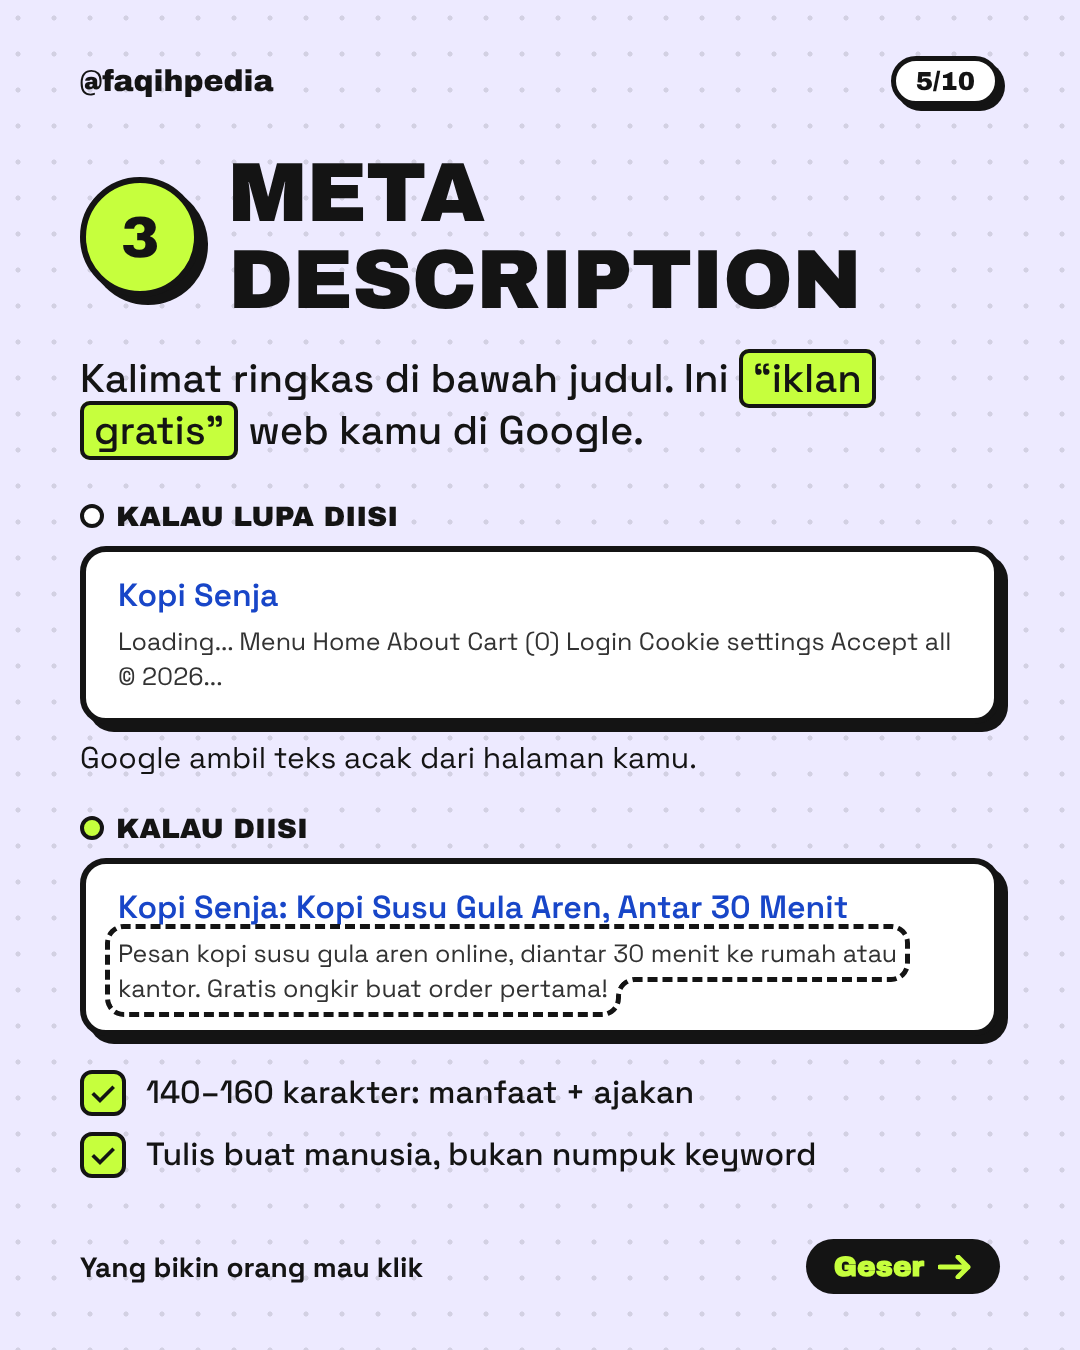
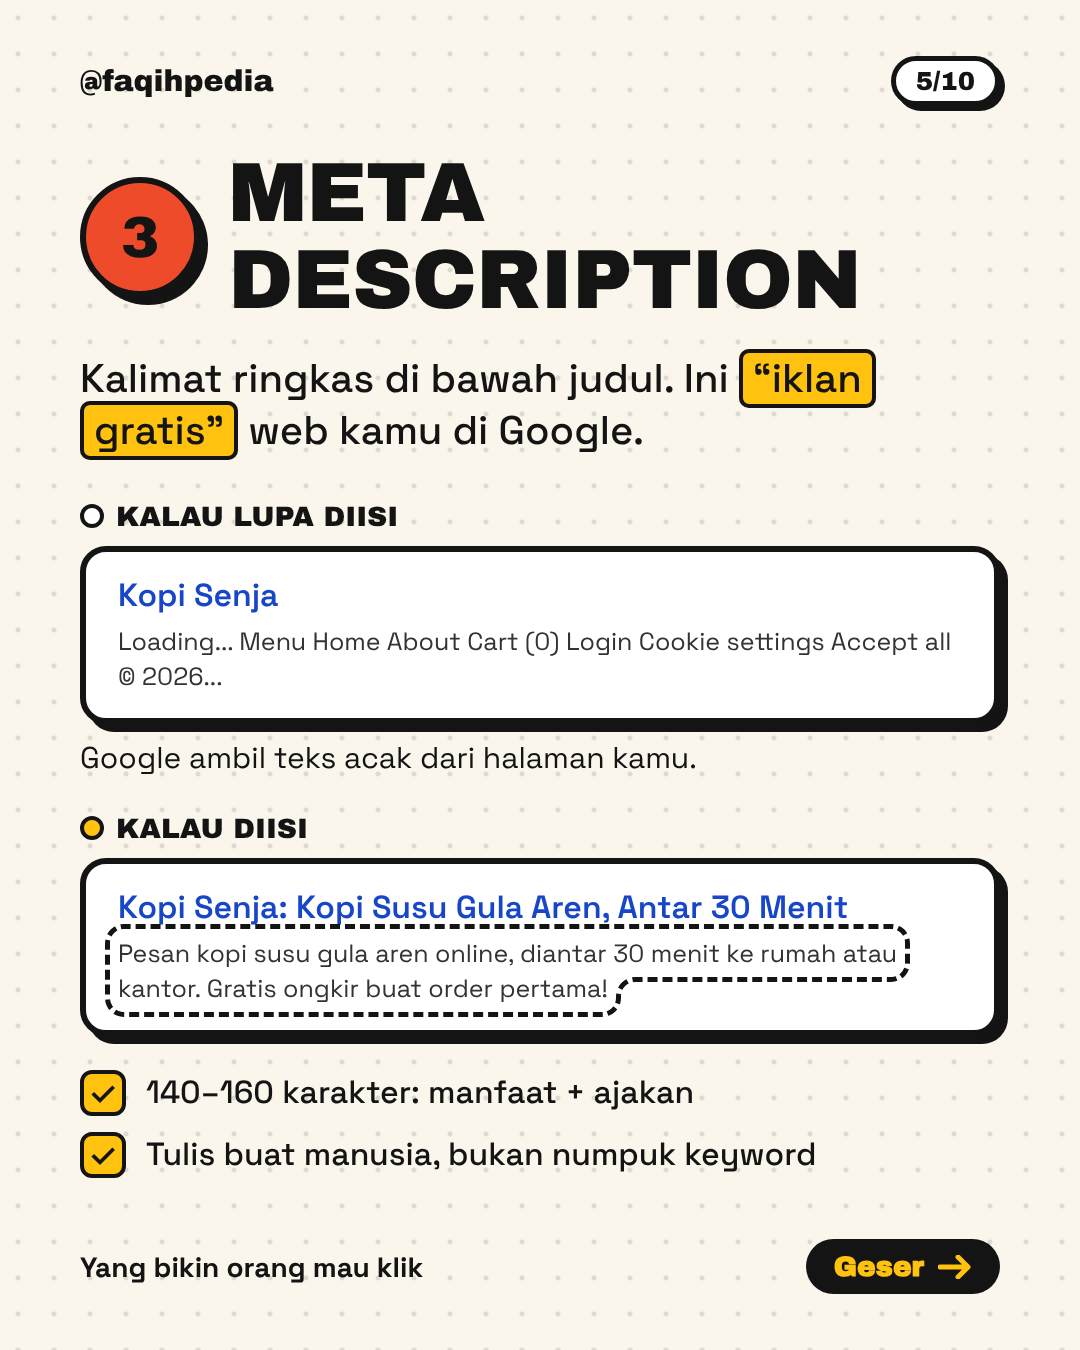
Carousel: switch to retro-pop palette (cream, yellow, blue, red-orange)
Claude-Session: https://claude.ai/code/session_018xRo3amBKB69FesK9psCXM

diff --git a/carousel-meta-tags/index.html b/carousel-meta-tags/index.html
@@ -11,16 +11,18 @@
 
 /*
   Palette: one accent only.
-  ink + white + lilac (background, plus a deeper lilac for surfaces) + lime.
-  Highlights are always ink-on-lime or lime-on-ink, both well above WCAG AAA.
+  Retro-pop palette: cream base, yellow as the main accent, blue + red-orange as support.
+  All text is ink (or yellow/cream on ink): ink on yellow ~12:1, on blue ~7:1, on red ~5:1.
   The only other colour is the link blue inside the UI mocks, because that is what real chat / search UIs look like.
 */
 :root {
-  --bg: #EDEAFF;
-  --bg2: #D9D3FF;
+  --bg: #FBF6EC;
+  --bg2: #CDEBFF;
+  --blue: #1EA4F2;
+  --red: #EE4B2B;
   --ink: #141414;
   --white: #FFFFFF;
-  --lime: #C6FF3D;
+  --yellow: #FFC20E;
   --muted: #55535F;
   --link: #1846C8;
   --b: 6px;
@@ -38,43 +40,44 @@ body { background: #222; display: flex; flex-direction: column; align-items: cen
   padding: 150px 80px 130px;
   display: flex; flex-direction: column;
 }
-.slide.lime { background-color: var(--lime); background-image: radial-gradient(rgba(20,20,20,.14) 2.5px, transparent 2.6px); }
+.slide.red { background-color: var(--red); }
+.slide.yellow { background-color: var(--yellow); background-image: radial-gradient(rgba(20,20,20,.14) 2.5px, transparent 2.6px); }
 
 /* chrome: top + bottom bars */
 .top { position: absolute; top: 56px; left: 80px; right: 80px; display: flex; justify-content: space-between; align-items: center; }
 .handle { font-family: var(--head); font-size: 30px; }
 .count { font-family: var(--head); font-size: 26px; background: var(--white); border: 5px solid var(--ink); border-radius: 999px; padding: 6px 20px; box-shadow: 5px 5px 0 var(--ink); }
 .bottom { position: absolute; bottom: 56px; left: 80px; right: 80px; display: flex; justify-content: space-between; align-items: center; font-weight: 700; font-size: 28px; }
-.swipe { font-family: var(--head); font-size: 28px; background: var(--ink); color: var(--lime); border-radius: 999px; padding: 12px 28px; display: flex; gap: 14px; align-items: center; }
+.swipe { font-family: var(--head); font-size: 28px; background: var(--ink); color: var(--yellow); border-radius: 999px; padding: 12px 28px; display: flex; gap: 14px; align-items: center; }
 
 /* blocks */
 .box { background: var(--white); border: var(--b) solid var(--ink); border-radius: 26px; box-shadow: 12px 12px 0 var(--ink); padding: 30px 36px; }
 .sticker { display: inline-block; font-family: var(--head); text-transform: uppercase; border: 5px solid var(--ink); border-radius: 16px; box-shadow: 7px 7px 0 var(--ink); padding: 10px 24px; font-size: 34px; white-space: nowrap; background: var(--white); }
-.sticker.dark { background: var(--ink); color: var(--lime); }
-.mark { background: var(--lime); color: var(--ink); border: 4px solid var(--ink); border-radius: 10px; padding: 0 10px; box-decoration-break: clone; -webkit-box-decoration-break: clone; }
-.mark.inv { background: var(--ink); color: var(--lime); }
+.sticker.dark { background: var(--ink); color: var(--yellow); }
+.mark { background: var(--yellow); color: var(--ink); border: 4px solid var(--ink); border-radius: 10px; padding: 0 10px; box-decoration-break: clone; -webkit-box-decoration-break: clone; }
+.mark.inv { background: var(--ink); color: var(--yellow); }
 
 h1 { font-family: var(--head); font-weight: 400; font-size: 100px; line-height: 1.04; letter-spacing: -1px; text-transform: uppercase; }
 h2 { font-family: var(--head); font-weight: 400; font-size: 84px; line-height: 1.04; text-transform: uppercase; letter-spacing: -1px; }
 .lead { font-size: 40px; line-height: 1.3; font-weight: 500; }
 .small { font-size: 30px; line-height: 1.35; }
-.num { width: 120px; height: 120px; border: var(--b) solid var(--ink); border-radius: 50%; background: var(--lime); box-shadow: 8px 8px 0 var(--ink); font-family: var(--head); font-size: 58px; display: grid; place-items: center; flex: none; }
+.num { width: 120px; height: 120px; border: var(--b) solid var(--ink); border-radius: 50%; background: var(--yellow); box-shadow: 8px 8px 0 var(--ink); font-family: var(--head); font-size: 58px; display: grid; place-items: center; flex: none; }
 .row { display: flex; gap: 28px; align-items: center; }
 .mono { font-family: "DejaVu Sans Mono", ui-monospace, monospace; }
 .code { background: var(--ink); color: var(--white); border-radius: 18px; padding: 22px 28px; font-size: 25px; line-height: 1.55; font-family: "DejaVu Sans Mono", ui-monospace, monospace; border: var(--b) solid var(--ink); box-shadow: 10px 10px 0 rgba(20,20,20,.3); }
-.code .a { color: var(--bg2); }
-.code .s { color: var(--lime); }
-.tag { position: absolute; font-family: var(--head); font-size: 24px; background: var(--ink); color: var(--lime); border: 4px solid var(--ink); border-radius: 12px; padding: 6px 14px; box-shadow: 5px 5px 0 rgba(20,20,20,.35); white-space: nowrap; }
+.code .a { color: #8FD3FF; }
+.code .s { color: var(--yellow); }
+.tag { position: absolute; font-family: var(--head); font-size: 24px; background: var(--ink); color: var(--yellow); border: 4px solid var(--ink); border-radius: 12px; padding: 6px 14px; box-shadow: 5px 5px 0 rgba(20,20,20,.35); white-space: nowrap; }
 .tag.light { background: var(--white); color: var(--ink); box-shadow: 5px 5px 0 var(--ink); }
 .tips { display: flex; flex-direction: column; gap: 18px; }
 .tip { display: flex; gap: 20px; align-items: flex-start; font-size: 32px; line-height: 1.3; font-weight: 500; }
-.tip i { flex: none; width: 46px; height: 46px; border: 4px solid var(--ink); border-radius: 12px; background: var(--lime); display: grid; place-items: center; font-style: normal; font-weight: 700; margin-top: -2px; }
+.tip i { flex: none; width: 46px; height: 46px; border: 4px solid var(--ink); border-radius: 12px; background: var(--yellow); display: grid; place-items: center; font-style: normal; font-weight: 700; margin-top: -2px; }
 .tip i.w { background: var(--white); }
 
 /* chat mock */
 .chat { background: #F7F6FB; border: var(--b) solid var(--ink); border-radius: 30px; box-shadow: 12px 12px 0 var(--ink); overflow: hidden; }
 .chat-head { background: var(--ink); color: var(--white); padding: 20px 28px; display: flex; gap: 18px; align-items: center; font-weight: 700; font-size: 28px; }
-.ava { width: 52px; height: 52px; border-radius: 50%; background: var(--bg2); border: 3px solid var(--white); }
+.ava { width: 52px; height: 52px; border-radius: 50%; background: var(--blue); border: 3px solid var(--white); }
 .chat-body { padding: 26px; display: flex; flex-direction: column; gap: 16px; }
 .bubble { align-self: flex-end; background: var(--bg2); border: 4px solid var(--ink); border-radius: 22px 22px 6px 22px; padding: 16px 20px; font-size: 28px; max-width: 92%; }
 .bubble.in { align-self: flex-start; background: var(--white); border-radius: 22px 22px 22px 6px; }
@@ -91,18 +94,18 @@ h2 { font-family: var(--head); font-weight: 400; font-size: 84px; line-height: 1
 .og .og-logo, .og .og-h { position: relative; z-index: 1; }
 .og .og-logo { display: flex; gap: 12px; align-items: center; font-family: var(--head); font-size: 1.1em; }
 .og .og-h { font-family: var(--head); font-size: 2.2em; line-height: 1.02; margin-top: .3em; text-transform: uppercase; }
-.og .og-h span { color: var(--lime); }
-.og .blob { position: absolute; right: -12%; top: -22%; width: 42%; aspect-ratio: 1; border-radius: 50%; background: var(--bg2); border: 5px solid var(--white); }
-.og .blob2 { position: absolute; right: 8%; bottom: -24%; width: 26%; aspect-ratio: 1; border-radius: 30%; background: var(--lime); border: 5px solid var(--white); transform: rotate(18deg); }
+.og .og-h span { color: var(--yellow); }
+.og .blob { position: absolute; right: -12%; top: -22%; width: 42%; aspect-ratio: 1; border-radius: 50%; background: var(--blue); border: 5px solid var(--white); }
+.og .blob2 { position: absolute; right: 8%; bottom: -24%; width: 26%; aspect-ratio: 1; border-radius: 30%; background: var(--red); border: 5px solid var(--white); transform: rotate(18deg); }
 
 /* fictional brand logo used in mocks */
-.logo { width: 1em; height: 1em; border-radius: 28%; background: var(--lime); border: .1em solid var(--ink); display: grid; place-items: center; font-family: var(--head); color: var(--ink); flex: none; line-height: 1; }
+.logo { width: 1em; height: 1em; border-radius: 28%; background: var(--yellow); border: .1em solid var(--ink); display: grid; place-items: center; font-family: var(--head); color: var(--ink); flex: none; line-height: 1; }
 .logo b { font-size: .62em; font-weight: 400; }
 
 /* browser tabs */
 .browser { border: var(--b) solid var(--ink); border-radius: 26px; overflow: hidden; box-shadow: 12px 12px 0 var(--ink); background: var(--white); }
-.tabs { background: var(--bg2); display: flex; align-items: flex-end; gap: 6px; padding: 18px 18px 0; border-bottom: var(--b) solid var(--ink); }
-.tabx { display: flex; gap: 14px; align-items: center; padding: 16px 20px; font-size: 26px; font-weight: 600; border: 4px solid var(--ink); border-bottom: none; border-radius: 16px 16px 0 0; background: #E9E5FF; white-space: nowrap; max-width: 330px; overflow: hidden; }
+.tabs { background: var(--blue); display: flex; align-items: flex-end; gap: 6px; padding: 18px 18px 0; border-bottom: var(--b) solid var(--ink); }
+.tabx { display: flex; gap: 14px; align-items: center; padding: 16px 20px; font-size: 26px; font-weight: 600; border: 4px solid var(--ink); border-bottom: none; border-radius: 16px 16px 0 0; background: var(--bg2); white-space: nowrap; max-width: 330px; overflow: hidden; }
 .tabx.on { background: var(--white); margin-bottom: -6px; padding-bottom: 22px; }
 .tabx span { overflow: hidden; text-overflow: ellipsis; }
 .blank { width: 30px; height: 30px; flex: none; border: 3px solid var(--muted); border-radius: 50%; position: relative; }
@@ -122,7 +125,7 @@ h2 { font-family: var(--head); font-weight: 400; font-size: 84px; line-height: 1
 .vs { display: grid; grid-template-columns: 1fr 1fr; gap: 26px; }
 .label { font-family: var(--head); font-size: 28px; text-transform: uppercase; margin-bottom: 14px; display: flex; gap: 12px; align-items: center; }
 .dot { width: 24px; height: 24px; border-radius: 50%; border: 4px solid var(--ink); background: var(--white); flex: none; }
-.dot.on { background: var(--lime); }
+.dot.on { background: var(--yellow); }
 
 /* CTA buttons */
 .cta { display: flex; align-items: center; gap: 30px; background: var(--white); border: var(--b) solid var(--ink); border-radius: 28px; box-shadow: 12px 12px 0 var(--ink); padding: 26px 32px; }
@@ -134,7 +137,7 @@ h2 { font-family: var(--head); font-weight: 400; font-size: 84px; line-height: 1
 <body>
 
 <!-- ============================================================ 1. COVER -->
-<section class="slide lime" id="s1">
+<section class="slide red" id="s1">
   <div class="top"><div class="handle">@faqihpedia</div><div class="count">1/10</div></div>
 
   <p class="lead" style="font-size:38px; font-weight:600;">Aku sering lihat orang share web hasil vibe coding…</p>
@@ -235,7 +238,7 @@ h2 { font-family: var(--head); font-weight: 400; font-size: 84px; line-height: 1
 <section class="slide" id="s4">
   <div class="top"><div class="handle">@faqihpedia</div><div class="count">4/10</div></div>
 
-  <div class="row"><div class="num">2</div><h2>Meta title</h2></div>
+  <div class="row"><div class="num" style="background:var(--blue)">2</div><h2>Meta title</h2></div>
   <p class="lead" style="margin-top:28px;">Judul halaman. Tampil di <span class="mark">tab</span>, <span class="mark">hasil Google</span>, dan preview link.</p>
 
   <div class="box serp" style="margin-top:50px; position:relative;">
@@ -250,7 +253,7 @@ h2 { font-family: var(--head); font-weight: 400; font-size: 84px; line-height: 1
       <div class="label" style="font-size:24px;"><span class="dot"></span>Yang sering aku lihat</div>
       <div class="mono" style="font-size:28px; line-height:1.6; text-decoration:line-through; text-decoration-thickness:3px;">Vite + React<br>Home<br>Untitled</div>
     </div>
-    <div class="box" style="background:var(--lime); padding:24px 28px;">
+    <div class="box" style="background:var(--yellow); padding:24px 28px;">
       <div class="label" style="font-size:24px;"><span class="dot" style="background:var(--ink)"></span>Yang proper</div>
       <div style="font-size:28px; line-height:1.4; font-weight:700;">[Nama Brand]: [Apa yang kamu tawarkan]</div>
     </div>
@@ -268,7 +271,7 @@ h2 { font-family: var(--head); font-weight: 400; font-size: 84px; line-height: 1
 <section class="slide" id="s5">
   <div class="top"><div class="handle">@faqihpedia</div><div class="count">5/10</div></div>
 
-  <div class="row"><div class="num">3</div><h2>Meta<br>description</h2></div>
+  <div class="row"><div class="num" style="background:var(--red)">3</div><h2>Meta<br>description</h2></div>
   <p class="lead" style="margin-top:28px;">Kalimat ringkas di bawah judul. Ini <span class="mark">“iklan gratis”</span> web kamu di Google.</p>
 
   <div class="label" style="margin-top:44px;"><span class="dot"></span>Kalau lupa diisi</div>
@@ -338,11 +341,11 @@ h2 { font-family: var(--head); font-weight: 400; font-size: 84px; line-height: 1
       <div><div style="font-family:var(--head); font-size:36px; text-transform:uppercase;">Google paham isinya</div><div class="small" style="margin-top:6px;">Title jadi petunjuk utama halaman ini tentang apa.</div></div>
     </div>
     <div class="box row" style="padding:26px 32px; gap:26px; align-items:flex-start;">
-      <div class="num" style="width:84px; height:84px; font-size:40px; box-shadow:5px 5px 0 var(--ink);">B</div>
+      <div class="num" style="width:84px; height:84px; font-size:40px; box-shadow:5px 5px 0 var(--ink); background:var(--blue);">B</div>
       <div><div style="font-family:var(--head); font-size:36px; text-transform:uppercase;">Lebih banyak yang klik</div><div class="small" style="margin-top:6px;">Judul + deskripsi yang jelas bikin orang milih link kamu.</div></div>
     </div>
     <div class="box row" style="padding:26px 32px; gap:26px; align-items:flex-start;">
-      <div class="num" style="width:84px; height:84px; font-size:40px; box-shadow:5px 5px 0 var(--ink);">C</div>
+      <div class="num" style="width:84px; height:84px; font-size:40px; box-shadow:5px 5px 0 var(--ink); background:var(--red);">C</div>
       <div><div style="font-family:var(--head); font-size:36px; text-transform:uppercase;">Kelihatan bisa dipercaya</div><div class="small" style="margin-top:6px;">Preview rapi = web serius, bukan link aneh.</div></div>
     </div>
   </div>
@@ -364,7 +367,7 @@ h2 { font-family: var(--head); font-weight: 400; font-size: 84px; line-height: 1
 <span class="s">3.</span> Meta description 140-160 karakter,<br>&nbsp;&nbsp;&nbsp;isinya manfaat + ajakan<br><br>
 <span class="s">4.</span> OG image 1200x630 + tag og:title,<br>&nbsp;&nbsp;&nbsp;og:description, og:image (URL absolut),<br>&nbsp;&nbsp;&nbsp;og:url, twitter:card=summary_large_image<br><br>
 <span class="a">Taruh semua di &lt;head&gt;.</span>
-    <div class="tag" style="right:-18px; top:-24px; background:var(--lime); color:var(--ink); transform:rotate(4deg); box-shadow:5px 5px 0 var(--ink);">SAVE SLIDE INI</div>
+    <div class="tag" style="right:-18px; top:-24px; background:var(--yellow); color:var(--ink); transform:rotate(4deg); box-shadow:5px 5px 0 var(--ink);">SAVE SLIDE INI</div>
   </div>
 
   <div class="bottom"><div>Ganti isi [ ] sesuai web kamu</div><div class="swipe">Geser <svg width="34" height="24" viewBox="0 0 34 24"><path d="M2 12h28M20 2l10 10-10 10" stroke="currentColor" stroke-width="5" fill="none" stroke-linecap="round" stroke-linejoin="round"/></svg></div></div>
@@ -395,7 +398,7 @@ h2 { font-family: var(--head); font-weight: 400; font-size: 84px; line-height: 1
 </section>
 
 <!-- ============================================================ 10. CTA -->
-<section class="slide lime" id="s10">
+<section class="slide yellow" id="s10">
   <div class="top"><div class="handle">@faqihpedia</div><div class="count">10/10</div></div>
 
   <h1 style="font-size:92px;">Biar web kamu<br>dilihat orang<br><span class="mark inv">udah proper.</span></h1>
@@ -403,15 +406,15 @@ h2 { font-family: var(--head); font-weight: 400; font-size: 84px; line-height: 1
 
   <div style="display:flex; flex-direction:column; gap:28px; margin-top:52px;">
     <div class="cta">
-      <div class="ic"><svg width="62" height="56" viewBox="0 0 62 56"><path d="M31 52S4 36 4 18A13 13 0 0131 11a13 13 0 0127 7c0 18-27 34-27 34z" fill="#C6FF3D" stroke="#C6FF3D" stroke-width="4" stroke-linejoin="round"/></svg></div>
+      <div class="ic"><svg width="62" height="56" viewBox="0 0 62 56"><path d="M31 52S4 36 4 18A13 13 0 0131 11a13 13 0 0127 7c0 18-27 34-27 34z" fill="#EE4B2B" stroke="#EE4B2B" stroke-width="4" stroke-linejoin="round"/></svg></div>
       <div><div class="t1">Like</div><div class="t2">kalau kamu pernah lupa salah satunya</div></div>
     </div>
     <div class="cta">
-      <div class="ic"><svg width="46" height="58" viewBox="0 0 46 58"><path d="M4 4h38v50L23 40 4 54z" fill="#C6FF3D" stroke="#C6FF3D" stroke-width="4" stroke-linejoin="round"/></svg></div>
+      <div class="ic"><svg width="46" height="58" viewBox="0 0 46 58"><path d="M4 4h38v50L23 40 4 54z" fill="#FFC20E" stroke="#FFC20E" stroke-width="4" stroke-linejoin="round"/></svg></div>
       <div><div class="t1">Save</div><div class="t2">buat checklist project berikutnya</div></div>
     </div>
     <div class="cta">
-      <div class="ic"><svg width="62" height="56" viewBox="0 0 62 56"><circle cx="24" cy="16" r="11" fill="#C6FF3D"/><path d="M4 52c0-12 9-20 20-20s20 8 20 20z" fill="#C6FF3D"/><path d="M51 18v20M41 28h20" stroke="#C6FF3D" stroke-width="6" stroke-linecap="round"/></svg></div>
+      <div class="ic"><svg width="62" height="56" viewBox="0 0 62 56"><circle cx="24" cy="16" r="11" fill="#1EA4F2"/><path d="M4 52c0-12 9-20 20-20s20 8 20 20z" fill="#1EA4F2"/><path d="M51 18v20M41 28h20" stroke="#1EA4F2" stroke-width="6" stroke-linecap="round"/></svg></div>
       <div><div class="t1">Follow</div><div class="t2">buat tips vibe coding lainnya</div></div>
     </div>
   </div>

diff --git a/README.md b/README.md
@@ -91,7 +91,7 @@ npm run render -- --browser-executable=<chrome-headless-shell>
 
 ## Carousel IG: meta tags untuk vibe coder (1080×1350, 10 slide)
 
-`carousel-meta-tags/slides/01.png`–`10.png` is a ready-to-post carousel reminding vibe coders to ask their AI for a favicon, meta title, meta description and OG image. It uses the same neobrutalist building blocks as the videos above, with a single lime accent on lilac; highlights are always ink-on-lime or lime-on-ink.
+`carousel-meta-tags/slides/01.png`–`10.png` is a ready-to-post carousel reminding vibe coders to ask their AI for a favicon, meta title, meta description and OG image. It uses the same neobrutalist building blocks as the videos above, in a retro-pop palette (cream, yellow, blue, red-orange) with ink text throughout for contrast.
 
 Edit the text in `carousel-meta-tags/index.html` (open it in a browser to preview), then re-export:
 
